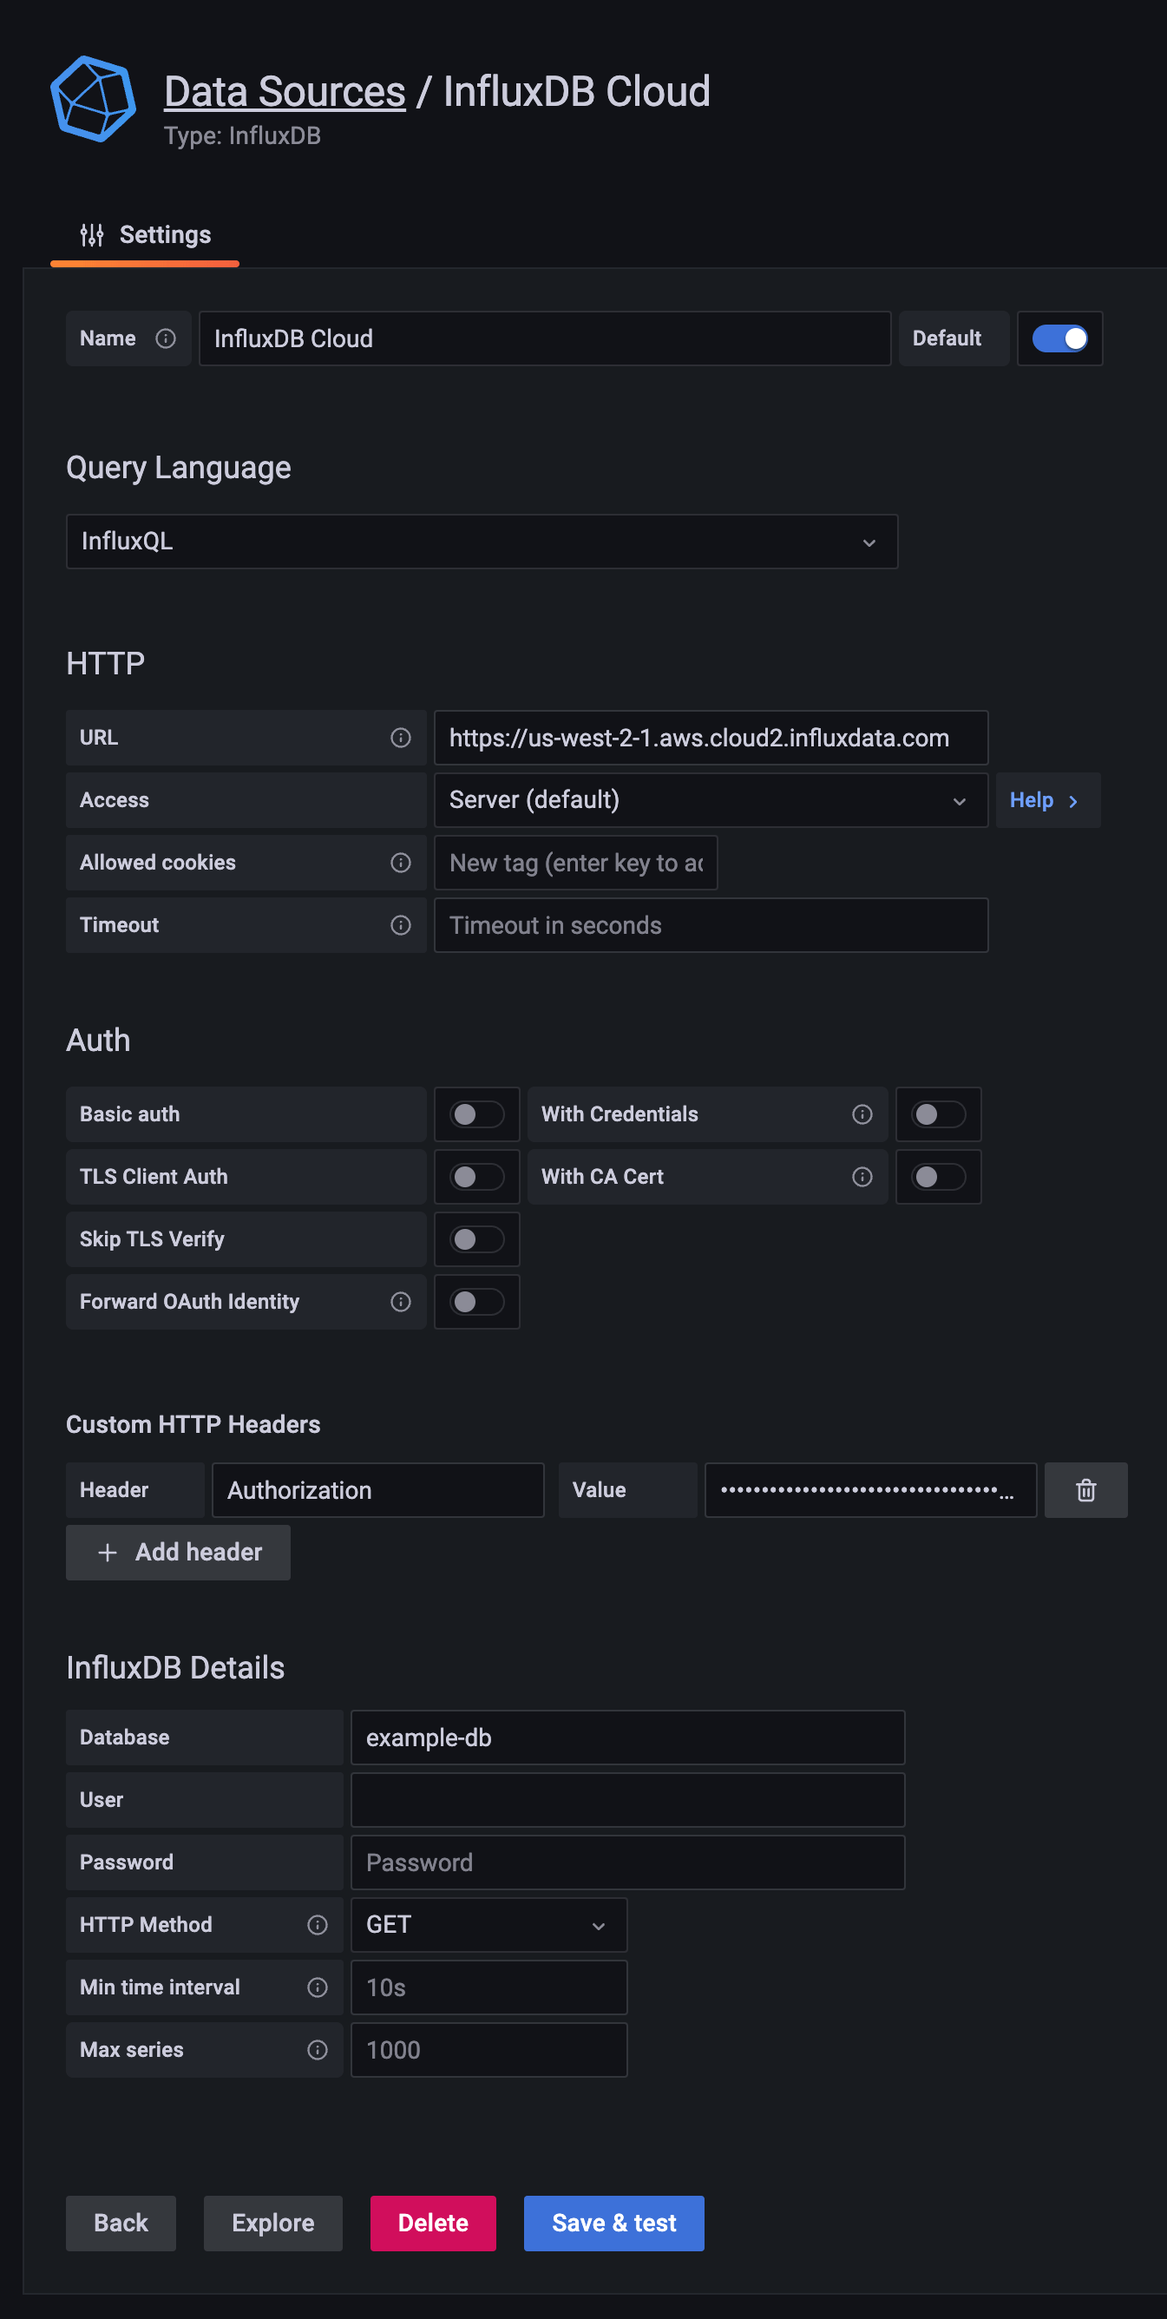
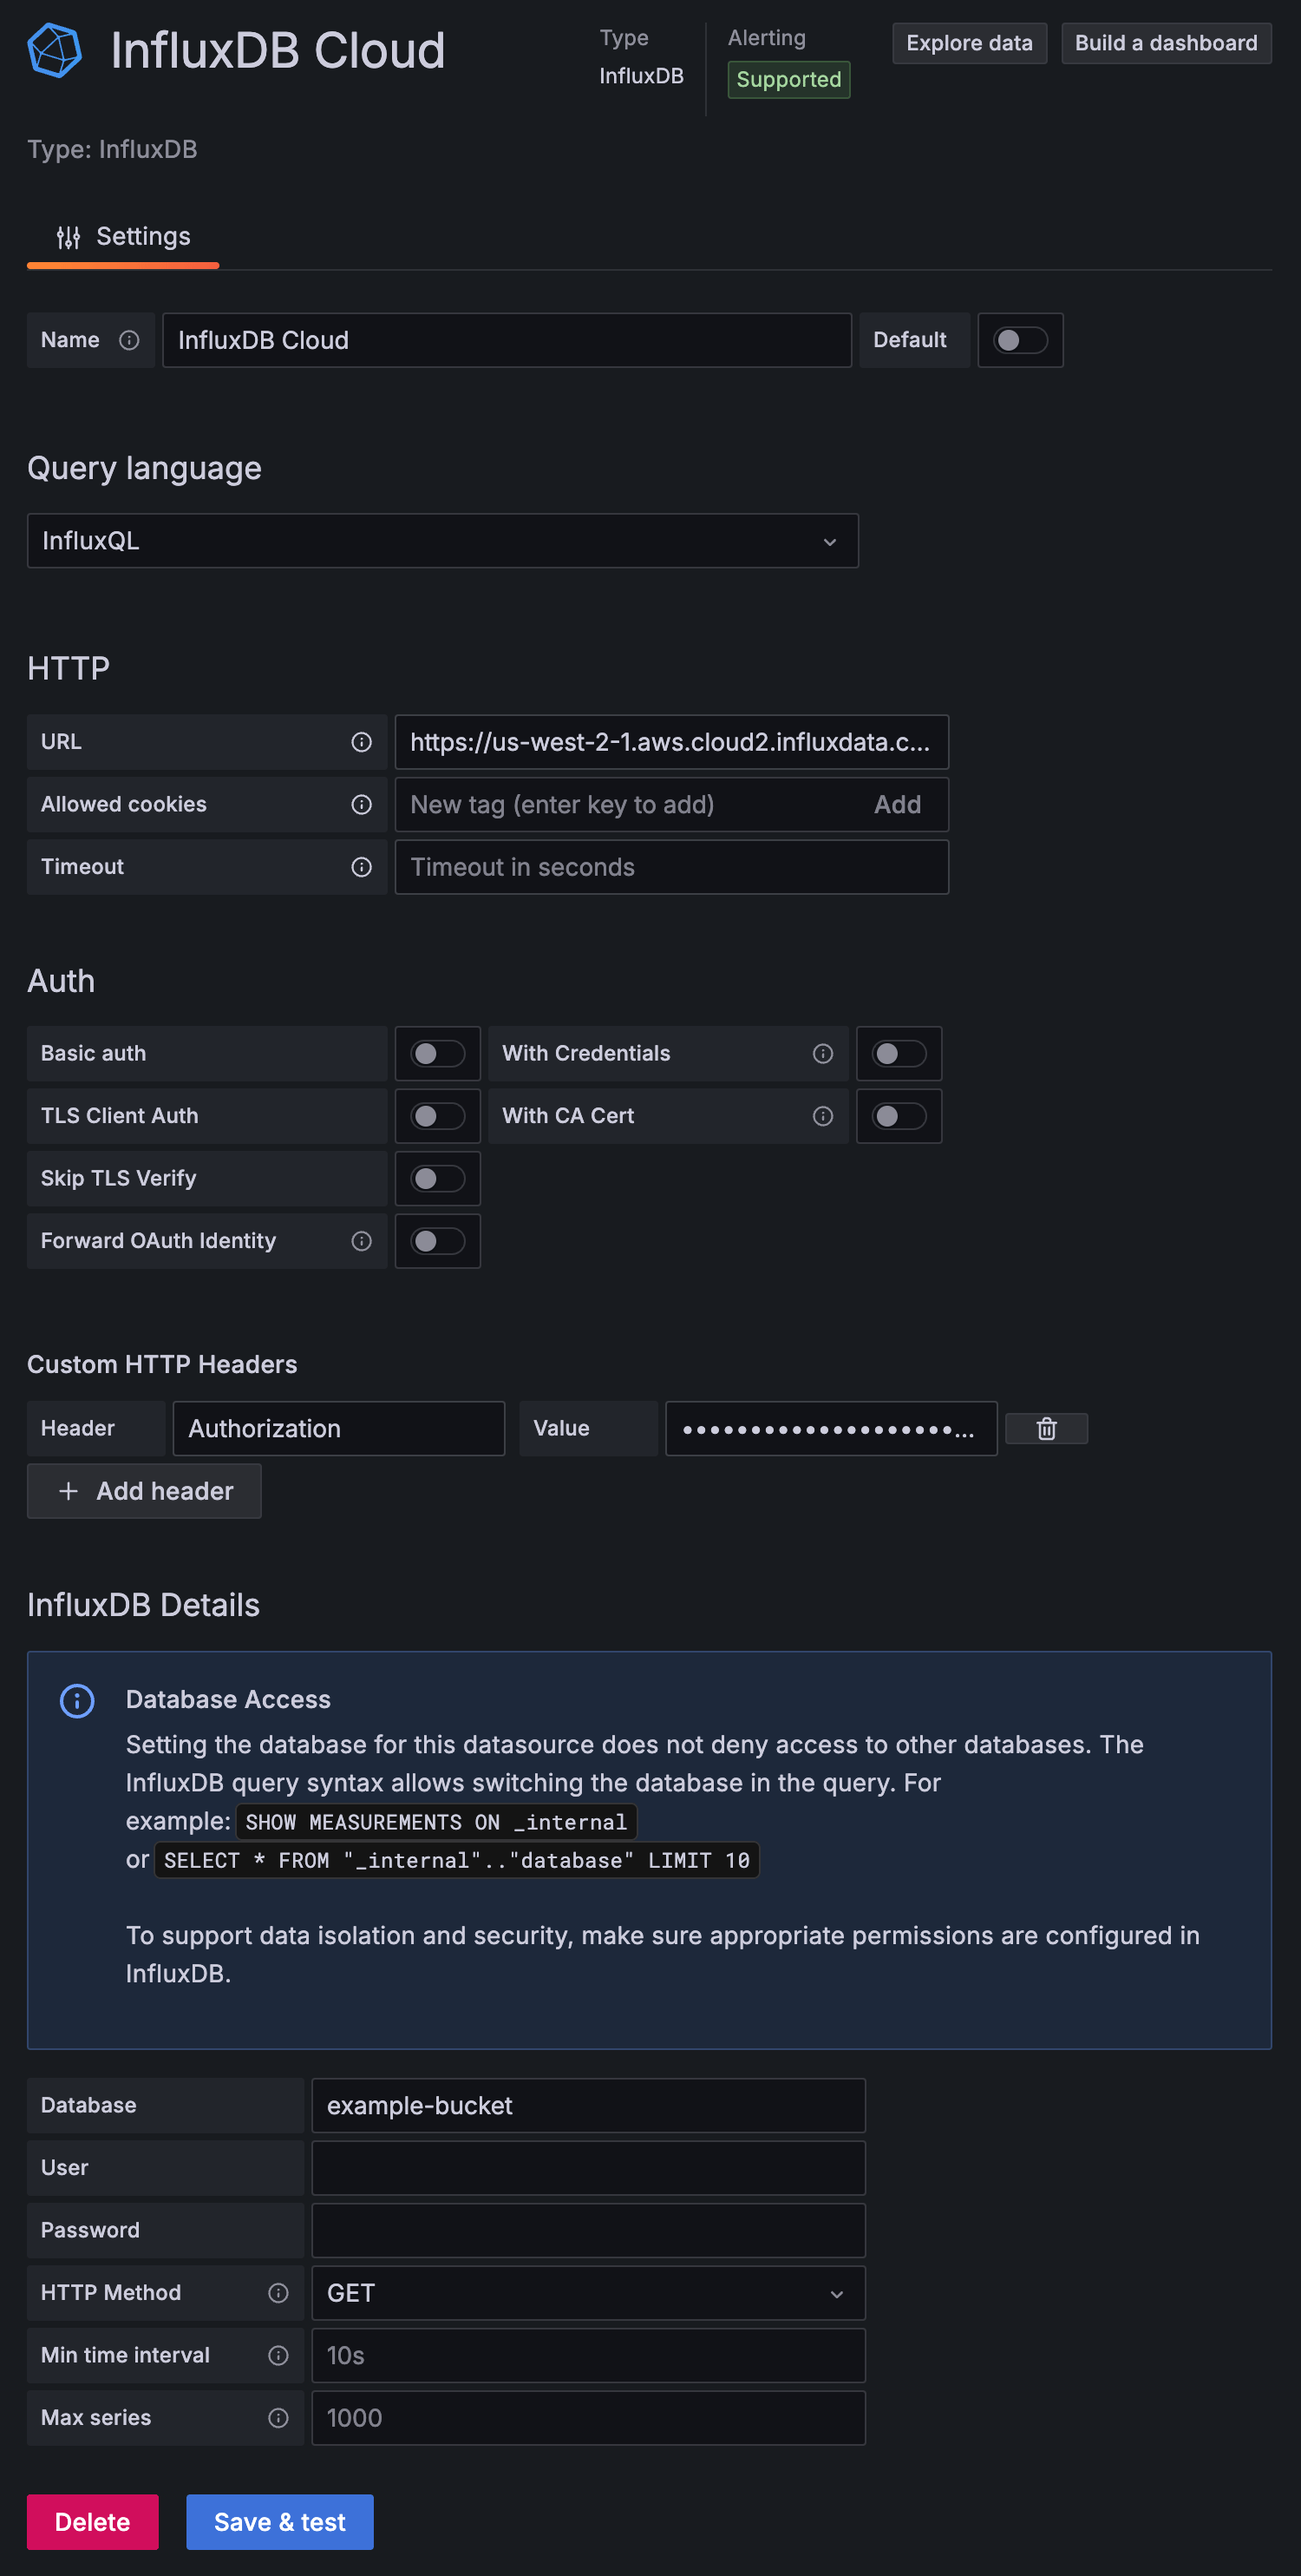
update v2 and cloud (tsm) grafana docs

diff --git a/content/influxdb/v2/tools/grafana.md b/content/influxdb/v2/tools/grafana.md
@@ -19,22 +19,27 @@ Use [Grafana](https://grafana.com/) or [Grafana Cloud](https://grafana.com/produ
 to visualize data from your **InfluxDB {{< current-version >}}** instance.
 
 {{% note %}}
-The instructions in this guide require **Grafana Cloud** or **Grafana v8.0+**.
+The instructions in this guide require **Grafana Cloud** or **Grafana 10.3+**.
 {{% /note %}}
 
-1. {{% cloud-only %}}[Log into InfluxDB Cloud](https://cloud2.influxdata.com).{{% /cloud-only %}}
-1. {{% oss-only %}}[Start InfluxDB](/influxdb/v2/install/#configure-and-start-influxdb).{{% /oss-only %}}
-2. [Sign up for Grafana Cloud](https://grafana.com/products/cloud/) or
-   [download and install Grafana](https://grafana.com/grafana/download).
-3. Visit your **Grafana Cloud user interface** (UI) or, if running Grafana locally,
-   [start Grafana](https://grafana.com/docs/grafana/latest/installation/) and visit
-   `http://localhost:3000` in your browser.
-4. In the left navigation of the Grafana UI, hover over the gear
-   icon to expand the **Configuration** section. Click **Data Sources**.
-5. Click **Add data source**.
-6. Select **InfluxDB** from the list of available data sources.
-7. On the **Data Source configuration page**, enter a **name** for your InfluxDB data source.
-8. Under **Query Language**, select one of the following:
+1.  {{% cloud-only %}}[Log into InfluxDB Cloud](https://cloud2.influxdata.com).{{% /cloud-only %}}
+1.  {{% oss-only %}}[Start InfluxDB](/influxdb/v2/install/#configure-and-start-influxdb).{{% /oss-only %}}
+2.  [Sign up for Grafana Cloud](https://grafana.com/products/cloud/) or
+    [download and install Grafana](https://grafana.com/grafana/download).
+3.  Visit your **Grafana Cloud user interface** (UI) or, if running Grafana locally,
+    [start Grafana](https://grafana.com/docs/grafana/latest/installation/) and visit
+    <http://localhost:3000> in your browser.
+4.  In the left navigation of the Grafana UI, open the **Connections** section
+    and select **Add new connection**.
+5.  Select **InfluxDB** from the list of available data sources and click
+    **Add new data source**.
+6.  On the **Data Source configuration page**, enter a **name** for your InfluxDB data source.
+7.  In the **Query Language** drop-down menu, select one of the query languages
+    supported by InfluxDB {{< current-version >}} (Flux or InfluxQL):
+
+    {{% note %}}
+SQL is only supported in InfluxDB v3.
+    {{% /note %}}
 
 {{< tabs-wrapper >}}
 {{% tabs %}}
@@ -56,14 +61,13 @@ configure your InfluxDB connection:
         ```sh
         http://localhost:8086/
         ```
-    
-    - **Access**: Server (default)
 
 2.  Under **InfluxDB Details**, enter the following:
 
     - **Organization**: Your InfluxDB [organization name **or** ID](/influxdb/v2/admin/organizations/view-orgs/).
     - **Token**: Your InfluxDB [API token](/influxdb/v2/admin/tokens/).
-    - **Default Bucket**: The default [bucket](/influxdb/v2/admin/buckets/) to use in Flux queries.
+    - **Default Bucket**: The default [bucket](/influxdb/v2/admin/buckets/) to
+      use in Flux queries.
     - **Min time interval**: The [Grafana minimum time interval](https://grafana.com/docs/grafana/latest/features/datasources/influxdb/#min-time-interval).
       Default is `10s`
     - **Max series**: The maximum number of series or tables Grafana will process.
@@ -73,11 +77,11 @@ configure your InfluxDB connection:
     datasource and returns the results of the test.
 
 {{% cloud-only %}}
-  {{< img-hd src="/img/influxdb/cloud-tools-grafana.png" alt="Use Grafana with InfluxDB Cloud and Flux" />}}
+  {{< img-hd src="/img/influxdb/cloud-tools-grafana-flux.png" alt="Use Grafana with InfluxDB Cloud and Flux" />}}
 {{% /cloud-only %}}
 
 {{% oss-only %}}
-  {{< img-hd src="/img/influxdb/2-2-tools-grafana.png" alt="Use Grafana with InfluxDB and Flux" />}}
+  {{< img-hd src="/img/influxdb/v2-tools-grafana-flux.png" alt="Use Grafana with InfluxDB and Flux" />}}
 {{% /oss-only %}}
 
 {{% /tab-content %}}
@@ -100,12 +104,14 @@ and then complete the instructions to configure Grafana:
 - [Manually migrated from InfluxDB 1.x to {{< current-version >}}](#manually-migrated-from-influxdb-1x-to-2x)
 
 ### Installed a new InfluxDB instance
+
 To configure Grafana to use InfluxQL with a new install of InfluxDB {{< current-version >}}, do the following:
 
 1. [Authenticate with InfluxDB {{< current-version >}} tokens](/influxdb/v2/admin/tokens/).
 2. [Manually create DBRP mappings](#view-and-create-influxdb-dbrp-mappings).
 
 ### Upgraded from InfluxDB 1.x to 2.x
+
 To configure Grafana to use InfluxQL when you've upgraded from InfluxDB 1.x to
 InfluxDB {{< current-version >}} (following an [official upgrade guide](/influxdb/v2/upgrade/v1-to-v2/)):
 
@@ -114,6 +120,7 @@ InfluxDB {{< current-version >}} (following an [official upgrade guide](/influxd
 2. Use the DBRP mappings InfluxDB automatically created in the upgrade process (no action necessary).
 
 ### Manually migrated from InfluxDB 1.x to 2.x
+
 To configure Grafana to use InfluxQL when you've manually migrated from InfluxDB
 1.x to InfluxDB {{< current-version >}}, do the following:
 
@@ -131,6 +138,7 @@ authenticate with a username and password like InfluxDB 1.x
 _(separate from the credentials used to log into the InfluxDB user interface)_.
 
 #### View existing v1 authorizations
+
 Use the [`influx v1 auth list`](/influxdb/v2/reference/cli/influx/v1/auth/list/)
 to list existing InfluxDB v1 compatible authorizations.
 
@@ -139,6 +147,7 @@ influx v1 auth list
 ```
 
 #### Create a v1 authorization
+
 Use the [`influx v1 auth create` command](/influxdb/v2/reference/cli/influx/v1/auth/create/)
 to grant read/write permissions to specific buckets. Provide the following:
 
@@ -166,6 +175,7 @@ These mappings allow queries following InfluxDB 1.x conventions to successfully
 query InfluxDB {{< current-version >}} buckets.
 
 #### View existing DBRP mappings
+
 Use the [`influx v1 dbrp list`](/influxdb/v2/reference/cli/influx/v1/dbrp/list/)
 to list existing DBRP mappings.
 
@@ -174,6 +184,7 @@ influx v1 dbrp list
 ```
 
 #### Create a DBRP mapping
+
 Use the [`influx v1 dbrp create` command](/influxdb/v2/reference/cli/influx/v1/dbrp/create/)
 command to create a DBRP mapping.
 Provide the following:
@@ -194,13 +205,15 @@ influx v1 dbrp create \
 
 {{% note %}}
 #### Repeat for each DBRP combination
+
 Each unique database and retention policy combination used by Grafana must be
 mapped to an InfluxDB {{< current-version >}} bucket.
 If you have multiple retention policies for a single bucket, set one of the the
 retention polices as the default using the `--default` flag.
 {{% /note %}}
 
-_For more information about DBRP mapping, see [Database and retention policy mapping](/influxdb/v2/reference/api/influxdb-1x/dbrp/)._
+_For more information about DBRP mapping, see
+[Database and retention policy mapping](/influxdb/v2/reference/api/influxdb-1x/dbrp/)._
 
 {{< /expand >}}
 {{< /expand-wrapper >}}
@@ -222,6 +235,7 @@ To query InfluxDB Cloud from Grafana using InfluxQL:
 3. [Configure your InfluxDB connection](#configure-your-influxdb-connection)
 
 ### Download and set up the influx CLI
+
 1. [Download the latest version of the `influx` CLI](/influxdb/cloud/sign-up/#optional-download-install-and-use-the-influx-cli)
    appropriate for your local operating system.
 2. Create a CLI configuration that provides the required InfluxDB Cloud **host**,
@@ -245,6 +259,7 @@ To query InfluxDB Cloud from Grafana using InfluxQL:
     see [`influx config`](/influxdb/cloud/reference/cli/influx/config/).
 
 ### Create an InfluxDB DBRP mapping
+
 When using InfluxQL to query InfluxDB Cloud, the query must specify a database and a retention policy.
 Use the [`influx v1 dbrp create` command](/influxdb/cloud/reference/cli/influx/v1/dbrp/create/)
 command to create a database/retention policy (DBRP) mapping that associates a database
@@ -256,6 +271,7 @@ query InfluxDB Cloud buckets.
 
 {{% note %}}
 ##### Automatically create DBRP mappings on write
+
 When using the InfluxDB 1.x compatibility API to write data to InfluxDB Cloud,
 InfluxDB Cloud automatically creates DBRP mappings for buckets whose names match the
 `db/rp` naming pattern of the database and retention policy specified in the write request.
@@ -280,13 +296,15 @@ influx v1 dbrp create \
 
 {{% note %}}
 #### Repeat for each DBRP combination
+
 Each unique database and retention policy combination used by Grafana must be
 mapped to an InfluxDB {{< current-version >}} bucket.
 If you have multiple retention policies for a single bucket, set one of the the
 retention polices as the default using the `--default` flag.
 {{% /note %}}
 
-_For more information about DBRP mapping, see [Database and retention policy mapping](/influxdb/cloud/reference/api/influxdb-1x/dbrp/)._
+_For more information about DBRP mapping, see
+[Database and retention policy mapping](/influxdb/cloud/reference/api/influxdb-1x/dbrp/)._
 
 {{% /cloud-only %}}
 <!---------------------------------------------------------------------------->
@@ -295,6 +313,7 @@ _For more information about DBRP mapping, see [Database and retention policy map
 
 
 ### Configure your InfluxDB connection
+
 With **InfluxQL** selected as the query language in your InfluxDB data source settings:
 
 1. Under **HTTP**, enter the following:
@@ -304,7 +323,6 @@ With **InfluxQL** selected as the query language in your InfluxDB data source se
         ```sh
         http://localhost:8086/
         ```
-    - **Access**: Server (default)
 
 2. Configure InfluxDB authentication:
 
@@ -342,7 +360,7 @@ With **InfluxQL** selected as the query language in your InfluxDB data source se
 {{% /cloud-only %}}
 
 {{< oss-only >}}
-  {{< img-hd src="/img/influxdb/2-2-tools-grafana-influxql.png" alt="Use Grafana with InfluxDB and Flux" />}}
+  {{< img-hd src="/img/influxdb/v2-tools-grafana-influxql.png" alt="Use Grafana with InfluxDB and Flux" />}}
 {{< /oss-only >}}
 
 {{% /tab-content %}}
